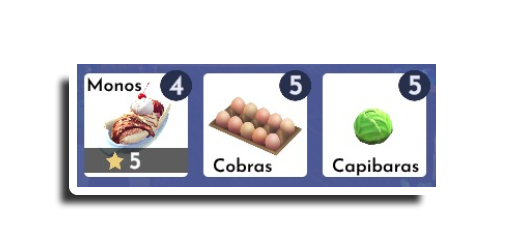
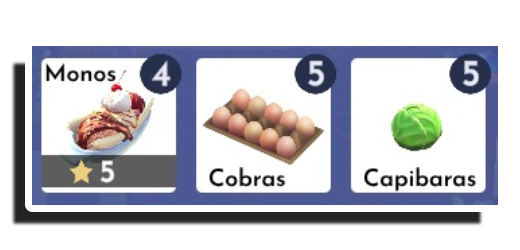
organizado mejor añadiendo comidas para todos

diff --git a/index.html b/index.html
@@ -19,30 +19,13 @@
       <h2>DISNEY DREAMLIGHT VALLEY</h2>
       <div class="logo-container">
         <h5>
-          hecha por
+          Creado por
           <img
             class="logo"
             src="hd-youtube-logo-png-transparent-background-20.png"
             alt="logoyt"
           /><a href="https://www.youtube.com/@Liyona">Liyona</a>
         </h5>
-      </div>
-    </div>
-    <div><h3>Inventario ideal</h3>
-    </div>
-    <section class="gallery">
-      <div>
-        <p>Valle</p>
-        <img src="comidas-valle.png" alt="inventario-valle">
-      </div>
-      <div>
-        <p>Primer DLC</p>
-        <img src="comidas-dlc1.png" alt="inventario-dlc1">
-      </div>
-      <div>
-        <p>Segundo DLC</p>
-        <img src="comidas-dlc2.png" alt="inventario-dlc2">
-      </div>
     </section>
     <section id="disponibles-ahora">
       <h3>Disponibles ahora</h3>
@@ -52,7 +35,11 @@
       </ul>
     </section>
     <section id="todas">
-      <h3>⬇ Todas las criaturas ⬇</h3>
+      <h3>Todas las criaturas</h3>
+      <details>
+        <summary><h2>Juego Base (Valle)</h2></summary>
+          <p>Comida que necesitas para alimentar a todos:</p>
+          <img class="inventario" src="comidas-valle.png" alt="inventario-valle">
       <section id="ardilla">
         <details>
           <summary><h4>Ardillas</h4></summary>
@@ -534,7 +521,12 @@
           </div>
         </details>
       </section>
-      <h2>Primer DLC a Rift in time : Isla eternidad</h2>
+      </details>
+      <details>
+      <summary>
+      <h2>Primer DLC a Rift in time : Isla eternidad</h2></summary>
+      <p>Comida que necesitas para alimentar a todos:</p>
+      <img class="inventario" src="comidas-dlc1.png" alt="inventario-dlc1">
       <section id="capibara">
         <details>
           <summary><h4>Capibaras</h4></summary>
@@ -773,7 +765,11 @@
           </div>
         </details>
       </section>
-      <h2>Segundo DLC Storybook vale : La vaguada de los cuentos</h2>
+    </details>
+    <details>
+      <summary><h2>Segundo DLC Storybook vale : La vaguada de los cuentos</h2></summary>
+      <p>Comida que necesitas para alimentar a todos:</p>
+      <img class="inventario" src="comidas-dlc2.png" alt="inventario-dlc2">
       <section id="búho">
         <details>
           <summary><h4>Búhos</h4></summary>
@@ -927,6 +923,7 @@
         </details>
       </section>
     </section>
+  </details>
     <section id="creditos">
       <p>
         Información obtenida de la
@@ -935,8 +932,9 @@
         >
       </p>
       <p>
-        Mis redes: <a href="https://www.youtube.com/@Liyona">Youtube</a>
+        Únete a mi comunidad: <a href="https://www.youtube.com/@Liyona?sub_confirmation=1">Youtube</a>
         <a href="https://www.twitch.tv/liyona__">Twitch</a>
+        <a href="https://discord.gg/7By44vN7WP">Discord</a>
       </p>
     </section>
     <script src="/criaturas-ddlv/script.js"></script>

diff --git a/styles.css b/styles.css
@@ -21,7 +21,7 @@ h5 {
   color: #333;
 }
 h4 {
-  font-size: 1.4em;
+  font-size: 1.2em;
   margin: 0;
   padding: 0;
   position: relative;
@@ -48,7 +48,7 @@ h3 {
 h2 {
   text-align: center;
   color: #333;
-  font-size: 2.5em;
+  font-size: 2 em;
   margin: 0;
   padding: 0;
   position: relative;
@@ -115,4 +115,12 @@ summary {
 
 details summary::-webkit-details-marker {
   display: none;
+}
+
+.inventario {
+  display: flex;
+  flex-direction: column;
+  align-items: center;
+  justify-content: center;
+  margin: 0 auto;
 }
